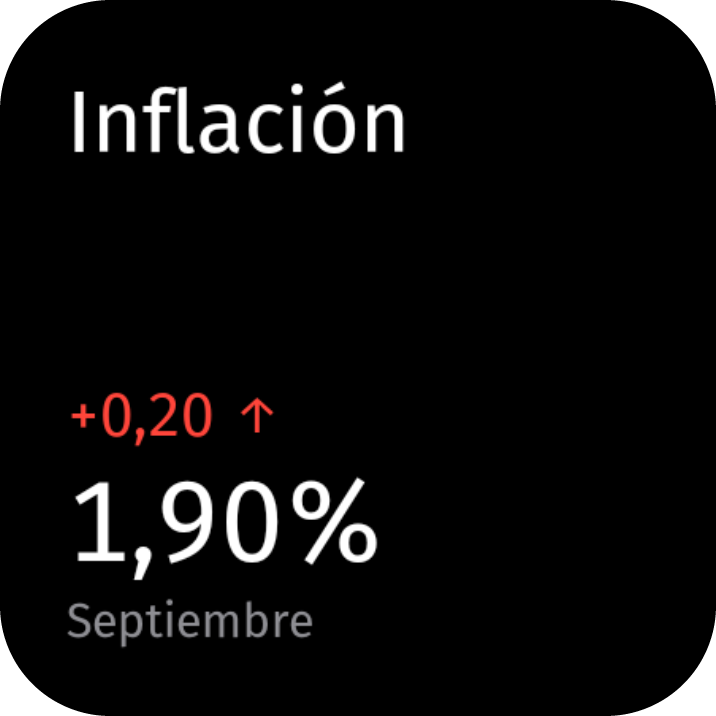
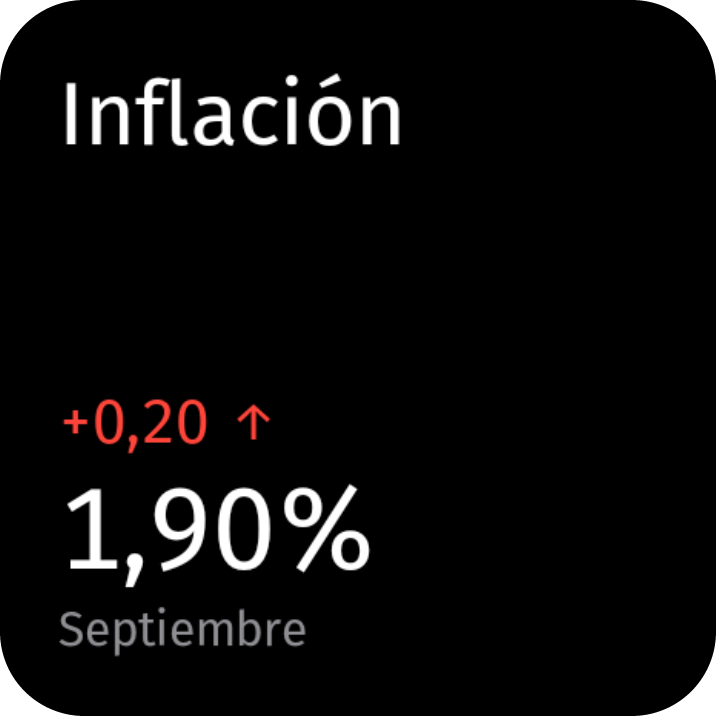
fix: android widgets stretched on tablets

diff --git a/packages/client/modules/widgets/android/src/main/java/im/outa/ambitodolar/widgets/WidgetProvider.kt b/packages/client/modules/widgets/android/src/main/java/im/outa/ambitodolar/widgets/WidgetProvider.kt
@@ -9,7 +9,6 @@ import android.content.Context
 import android.content.Intent
 import android.net.Uri
 import android.os.Build
-import android.os.Bundle
 import android.util.Log
 import android.util.SizeF
 import android.view.View
@@ -178,14 +177,14 @@ abstract class WidgetProvider : AppWidgetProvider() {
     // null means no answer and nothing on disk, the empty text beats a bare initialLayout
     if (rates == null) {
       for (id in ids) {
-        manager.updateAppWidget(id, views(context, null, id))
+        manager.updateAppWidget(id, responsive(context, null, id))
       }
       return
     }
     if (ids.isNotEmpty()) {
       // an id removed meanwhile is a no op for the host, never a widget brought back
       for (id in ids) {
-        manager.updateAppWidget(id, views(context, card(context, id, rates), id))
+        manager.updateAppWidget(id, responsive(context, card(context, id, rates), id))
       }
       Log.i(TAG, "${javaClass.simpleName} drew ${ids.size} on $trigger")
     }
@@ -210,7 +209,7 @@ abstract class WidgetProvider : AppWidgetProvider() {
     manager.setWidgetPreview(
       ComponentName(context, javaClass),
       AppWidgetProviderInfo.WIDGET_CATEGORY_HOME_SCREEN,
-      views(context, preview, null),
+      views(context, preview, null, 0),
     )
   }
 
@@ -242,34 +241,47 @@ abstract class WidgetProvider : AppWidgetProvider() {
     return CEILING * (card - 2 * padding)
   }
 
-  // OPTION_APPWIDGET_SIZES from android 12, the old extra when it is missing or empty
+  // one variant per cell size the host reports, each scaled to its own card, the square on the shorter
+  // side, so a rotation or a phone's short landscape cell never reuses another size's text
   @Suppress("DEPRECATION")
-  private fun widthDp(options: Bundle): Int {
+  private fun responsive(context: Context, content: Content?, widgetId: Int): RemoteViews {
+    val options = AppWidgetManager.getInstance(context).getAppWidgetOptions(widgetId)
     if (Build.VERSION.SDK_INT >= Build.VERSION_CODES.S) {
-      options
-        .getParcelableArrayList<SizeF>(AppWidgetManager.OPTION_APPWIDGET_SIZES)
-        ?.minOfOrNull { it.width }
-        ?.let { return it.toInt() }
+      val sizes = options.getParcelableArrayList<SizeF>(AppWidgetManager.OPTION_APPWIDGET_SIZES)
+      if (!sizes.isNullOrEmpty()) {
+        // the constructor throws past 16 sizes
+        return RemoteViews(
+          sizes.distinct().take(16).associateWith { views(context, content, widgetId, minOf(it.width, it.height).toInt()) },
+        )
+      }
     }
-    return options.getInt(AppWidgetManager.OPTION_APPWIDGET_MIN_WIDTH, 0)
+    val minWidth = options.getInt(AppWidgetManager.OPTION_APPWIDGET_MIN_WIDTH, 0)
+    val maxWidth = options.getInt(AppWidgetManager.OPTION_APPWIDGET_MAX_WIDTH, 0)
+    val minHeight = options.getInt(AppWidgetManager.OPTION_APPWIDGET_MIN_HEIGHT, 0)
+    val maxHeight = options.getInt(AppWidgetManager.OPTION_APPWIDGET_MAX_HEIGHT, 0)
+    // before android 12 the four extras: portrait is min width by max height, landscape max width by min height
+    if (minWidth > 0 && maxWidth > 0 && minHeight > 0 && maxHeight > 0) {
+      return RemoteViews(
+        views(context, content, widgetId, minOf(maxWidth, minHeight)),
+        views(context, content, widgetId, minOf(minWidth, maxHeight)),
+      )
+    }
+    return views(context, content, widgetId, minWidth)
   }
 
-  private fun views(context: Context, content: Content?, widgetId: Int?): RemoteViews {
+  // reported is the card side in dp, 0 for the picker preview, which has no widget to ask
+  private fun views(context: Context, content: Content?, widgetId: Int?, reported: Int): RemoteViews {
     val views = RemoteViews(context.packageName, layout)
     views.setViewVisibility(R.id.widget_content, if (content == null) View.GONE else View.VISIBLE)
     views.setViewVisibility(R.id.widget_empty, if (content == null) View.VISIBLE else View.GONE)
-    // 0 for the picker preview, which has no widget to ask
-    val reported =
-      widgetId?.let { widthDp(AppWidgetManager.getInstance(context).getAppWidgetOptions(it)) } ?: 0
-    // Sizes is a proportion of the card, so a card under REFERENCE_DP scales down and never up
-    val scale = if (reported > 0) (reported / REFERENCE_DP).coerceIn(SCALE_FLOOR, 1f) else 1f
+    // Sizes is a proportion of the card, so the text follows it both ways, a tablet card is bigger
+    val scale = if (reported > 0) (reported / REFERENCE_DP).coerceAtLeast(SCALE_FLOOR) else 1f
     // the padding follows the text at half its rate
     val padding =
       (context.resources.getDimensionPixelSize(R.dimen.widget_padding) * (1f + scale) / 2f)
         .roundToInt()
-    if (scale < 1f) {
-      views.setViewPadding(R.id.widget_content, padding, padding, padding, padding)
-    }
+    // always set, a host reusing the view across size variants keeps the last padding otherwise
+    views.setViewPadding(R.id.widget_content, padding, padding, padding, padding)
     when (content) {
       null ->
         views.slot(

diff --git a/packages/client/scripts/widget-preview.js b/packages/client/scripts/widget-preview.js
@@ -4,6 +4,8 @@
 //   node scripts/widget-preview.js assets/widgets/android-rate-2x2.png --size 716 --index 1
 //   node scripts/widget-preview.js assets/widgets/android-rate-2x2.png --device emulator-5554
 //
+// --index is the position in the printed card list, the order follows the layout
+//
 // Place the widget on the home screen, leave it visible, then run this with a device
 // connected. It screencaps, finds the card, cuts it out with transparent rounded
 // corners and writes the asset. The widgets module copies it from here at build time,
@@ -18,8 +20,8 @@ const path = require('path');
 const { PNG } = require('pngjs');
 const { parseArgs } = require('util');
 
-// widget_corner in dimens.xml over the 130dp a 2x2 card reports
-const RADIUS_RATIO = 20 / 130;
+// widget_corner in dimens.xml over about the card side of the capture phone, slightly inside on a bigger card
+const RADIUS_RATIO = 20 / 170;
 // a card pixel is this dark, the launcher wallpaper never is
 const DARK = 30;
 // pulls the cut inside the antialiased boundary so no wallpaper survives

diff --git a/packages/client/docs/android-widgets.md b/packages/client/docs/android-widgets.md
@@ -1,29 +1,33 @@
 # Android widgets
 
-Read this before touching anything under `packages/client/modules/widgets/`, the ios
-`RateWidgets` target, or the widget previews. `AGENTS.md` carries the pointer and the trap
-lines, this file carries everything else.
+Read before touching `packages/client/modules/widgets/`, the ios `RateWidgets` target, or the
+widget previews. The root `AGENTS.md` carries the pointer and the trap lines, this file the rest.
 
 ## The module
 
 Native, in the local expo module `packages/client/modules/widgets/`. RemoteViews and XML layouts, no react-native, no Compose. Android stays CNG: `packages/client/android/` is generated, only the module is checked in, and autolinking merges its manifest and `res/` into the app, so no config plugin.
 
-- **The card is square** through an ImageView with `adjustViewBounds` over a 1:1 shape drawable. Never `match_parent`. Sizing the card from what the launcher reports is unreliable, measured on two phones: a Moto Edge 30 Ultra cropped 16dp, a Galaxy S9 scaled to 78%.
-- **The text sizes scale to the reported width, `scale` in `WidgetProvider.views()`.** `Sizes` is a
-  proportion of the card, so every size is multiplied by `reported / REFERENCE_DP`, clamped to
-  `SCALE_FLOOR .. 1`, and the padding follows at `(1 + scale) / 2`. `REFERENCE_DP` is 170 and has to
-  stay **under the narrowest report that still renders right**, the 174 of an s9. `SCALE_FLOOR` is
-  0.7, past it `TextBitmap` ellipsizes. The picker preview has no widget to ask and gets 1.
-  Measured with `uiautomator dump`, reported against drawn: s9 on android 10 and one ui 174/144
-  right, android 12 emulator 175/176 right, android 10 emulator 130/130 overflows. The two do not
-  track, so the ratio is the signal.
-- **A list row never shrinks a name or a date**, every row keeps one size and a long one ellipsizes, as ios and the watch do with no `minimumScaleFactor`. The slot is an ImageView with `fitStart` that would scale an overflowing bitmap down, so the name and the date get the reported card minus the value beside them and `ROW_GAP_DP`, the margin in `widget_list.xml`. A host that reports more than it draws still lands on `fitStart`; the picker preview keeps the ceiling.
+- **The card is square on the shorter side of the cell** through an ImageView with `adjustViewBounds` over a 1:1 shape drawable larger than any cell, inside a `wrap_content` `RelativeLayout` that pins the content to it. Never `match_parent`: a tablet cell is wider than tall and stretched the card. Sizing the card from what the launcher reports is unreliable, measured on two phones: a Moto Edge 30 Ultra cropped 16dp, a Galaxy S9 scaled to 78%.
+- **One variant per cell size, each with its own scale, `responsive()` in `WidgetProvider.kt`.**
+  From android 12 `RemoteViews(Map<SizeF, RemoteViews>)` over `OPTION_APPWIDGET_SIZES`, one
+  variant per reported size, a foldable reports four, and the host draws the one that fits; below
+  it `RemoteViews(landscape, portrait)` from the four min/max extras. Each variant takes its card side, the shorter of width and height,
+  and `Sizes`, a proportion of the card, is multiplied by `side / REFERENCE_DP`, at least
+  `SCALE_FLOOR`, the padding at `(1 + scale) / 2`. Measured: Pixel phone card 181dp, Pixel Tablet
+  landscape 233dp, both with the text in the proportion of the preview png. `REFERENCE_DP` is 170
+  and has to stay **under the narrowest report that still renders right**, the 174 of an s9.
+  `SCALE_FLOOR` is 0.7, past it `TextBitmap` ellipsizes. Measured with `uiautomator dump`, reported
+  against drawn: s9 on android 10 and one ui 174/144 right, android 12 emulator 175/176 right,
+  android 10 emulator 130/130 overflows. The two do not track, so the ratio is the signal.
+- **The picker preview goes at scale 1**, it has no widget to ask, so on a tablet picker it reads
+  smaller than the placed widget.
+- **Names and dates ellipsize to the reported room**, every row keeps one size and a long one ellipsizes, as ios and the watch do with no `minimumScaleFactor`. The slot is an ImageView with `fitStart` that would scale an overflowing bitmap down, so the name and the date get the reported card minus the value beside them and `ROW_GAP_DP`, the margin in `widget_list.xml`. A host that reports more than it draws lands on `fitStart`, which shrinks them; the picker preview keeps the ceiling.
 - **Every text bitmap is tagged with the current density** in `TextBitmap`. The default tag is the physical density, so with a changed display size the host scaled every slot by the ratio of the two, the values grew and the names shrank. `adb shell wm density` reproduces it; the app process keeps the old density until it restarts.
 - **One role, one size, in `Sizes.kt`.** The ios point sizes times `1.05`, measured as glyph height over card width, independent of screen and density. In dp not sp, so the system font scale cannot move them, which is what `sizeCategory large` does on ios.
 - **A date that looks lighter on one widget is antialiasing or the launcher scaling it down**, never a different color. Roles live in `views()`, each widget declares only which slot carries the change color, because ios colors the small one on the rate and the big one on the spread.
 - **Gated to api 26** with `android:enabled="@bool/widget_supported"` plus a `values-v26` override, because `Resources.getFont` is api 26 and the text is drawn with it. Below that the launcher never lists the widgets.
 - **`android:fontFamily` does NOT work here.** The launcher builds the views in its own process and resolves only system typefaces, so the font falls back with no error and no log line. Measured on four devices: holds on One UI, fails on pixel, motorola, emulator. Not a format problem, a `.ttf` fails the same.
-- **The text is drawn here and travels as a bitmap.** `TextBitmap.of()` is the one routine every slot goes through, so a new widget writes no render code. Only the glyphs are pixels, the card and layout stay real views. Around 325 KB per list redraw against a 1 MB binder ceiling, `ALPHA_8` plus a tint would cut it to a quarter.
+- **The text is drawn here and travels as a bitmap.** `TextBitmap.of()` is the one routine every slot goes through, so a new widget writes no render code. Only the glyphs are pixels, the card and layout stay real views. The bitmap bytes grow with the scale squared, one set per size variant, against a `RemoteViews` ceiling that depends on the display, `ALPHA_8` plus a tint would cut them to a quarter.
 - **A restore does hand out new ids**, so `onRestored` moves the config keys across and is not dead code. `allowBackup` is false in `packages/client/app.config.ts` but from android 12 that no longer covers a device to device transfer, which is `dataExtractionRules` and there is none, so where a manufacturer still allows it the default applies.
 - **Redraw triggers**: `APPWIDGET_UPDATE`, `MY_PACKAGE_REPLACED`, `LOCALE_CHANGED`, `TIMEZONE_CHANGED`, all through `goAsync` and all hitting `/fetch`, plus `reloadWidgets()` from `withRateUpdates` and the config save. Locale and zone matter because separators and time are read at render. `MY_PACKAGE_REPLACED` matters because an app update re-inflates every widget from `initialLayout` and without it they sit bare up to half an hour.
 - **The periodic redraw is a WorkManager `PeriodicWorkRequest`**, 30 min behind a network constraint. `updatePeriodMillis` is 0 on purpose: it is an alarm, it fires with no network, and those redraws died in milliseconds on a doze wake. A failed fetch returns `Result.retry()` with no count of our own, WorkManager re-evaluates the constraint and backs off 30s doubling to five hours.
@@ -36,7 +40,7 @@ Native, in the local expo module `packages/client/modules/widgets/`. RemoteViews
 - **Nothing is cached across a locale change.** The `DecimalFormat` is built per call and not held in a lazy, which would freeze the separators of whatever locale was set the first time a widget drew.
 - **Unknown rate types are dropped at parse time**, `Format.isKnown` over `RATE_TYPES` and `MARKET_TYPES`, mirroring the ios `usableRates` whitelist. A type the app retires can still arrive from the service, and without the filter the widget titles a rate with its raw id. Survivors keep their order and compact to the top, blanks pad the bottom, same as the ios `compactMap`. The spread needs both sides or it goes empty, the list only when none of the three survives.
 - **Widget order in the picker follows the labels, not the declaration.** The launcher sorts alphabetically. Measured twice: two declaration orders gave the same picker, and renaming the labels to `Zzz`/`Aaa`/`Mmm` reordered it. Labels have to match `.configurationDisplayName(...)`, so the order is not ours to pick.
-- **`previewImage`**: regenerate from a live device with `node scripts/widget-preview.js assets/widgets/android-rate-2x2.png [--device serial]` from `packages/client`, ImageOptim after. The module `build.gradle` `copyWidgetRes` task copies `packages/client/assets/fonts/FiraGO-Regular.otf` into `font` as `widget_firago_regular.otf` and every `android-*-2x2.png` into `drawable-nodpi`, straight from `packages/client/assets/` at build time, no prebuild step between. From android 15 `setWidgetPreview` replaces them at runtime with the real rates, capped at two calls per hour per provider.
+- **`previewImage`**: regenerate from a live device with `node scripts/widget-preview.js assets/widgets/android-rate-2x2.png [--index n] [--device serial]` from `packages/client`, `oxipng -o 4 --strip safe` after. The module `build.gradle` `copyWidgetRes` task copies `packages/client/assets/fonts/FiraGO-Regular.otf` into `font` as `widget_firago_regular.otf` and every `android-*-2x2.png` into `drawable-nodpi`, straight from `packages/client/assets/` at build time, no prebuild step between. From android 15 `setWidgetPreview` replaces them at runtime with the real rates, capped at two calls per hour per provider.
 - Android cannot re-render a widget on a system theme change, so they are forced dark like ios.
 - **Logs**: `adb logcat -s AmbitoWidgets` prints nothing on One UI even with the lines in the buffer, measured on a galaxy s9: 0 against 324 for the same log. Use `adb logcat AmbitoWidgets:I *:S`. One line per redraw with its trigger and how many widgets it drew, one per call to the service with its duration.
 - Module resources are all prefixed `widget_`, plus `Theme.Widget.Config`. Keep it, everything merges into one namespace with the app.
@@ -67,14 +71,15 @@ gets shipped.
 - **A default**: ios in `Helper.swift`, `getDefaultRateType`, `getDefaultRateTypes` and
   `getDefaultSpreadRateTypes`, read from `RateTypeQuery.defaultResult` for the single rate and from
   each intent's `types` fallback for the two lists, the markets inline in `Intents.swift`, the first
-  and the first three of `getMarketTypes()`; android in each provider's `defaultRates`.
+  and the first three of `getMarketTypes()`; android in each provider's `defaultRates`. Rate
+  `oficial`, list `oficial, bna, informal`, spread `informal, bna` on both.
 - **Rates and markets share the flat keys of `/fetch`**, so an id never repeats between core
   `getAvailableRateTypes` and `getAvailableMarketTypes`, a core test fails otherwise. The market
   display rules are ported twice, `marketFormats` in `Rates.swift` and `Format.MARKETS`, from
   `MARKETS` in `packages/client/config/kinds.ts`: a change there moves all three. The native ones
-  drop the units on purpose, like the tickers, Merval `2.848.945`, Riesgo país `1.684`, Reservas
+  drop the units on purpose, like the tickers, MSCI Merval `84.093`, Riesgo país `1.684`, Reservas
   `50.043 M`; the app keeps `pts`, `pb` and `US$`. A month or a day is formatted in
-  Buenos Aires with es-AR, a time (Merval, Riesgo país) in the device zone like the rates.
+  Buenos Aires with es-AR, a time (MSCI Merval, Riesgo país) in the device zone like the rates.
 - **A /fetch schema change**: ios first, always, it reaches the widget and the watch app through
   `packages/client/targets/_shared/Rates.swift`. `lookupRateValues` reads the array by index and
   forces its casts, surviving only because `wellFormed` filters ahead of it, the stored payload
@@ -116,7 +121,7 @@ Going the other way there is a single line: `withRateUpdates` calls `reloadWidge
 - Rows update in place after a pick, the dialog is never rebuilt under the user. Both it and the picker are held in fields and dismissed in `onDestroy`, the pending selection survives a rotation through `onSaveInstanceState`.
 - Per widget config in SharedPreferences `ambito_widgets`, keys `rate0_<id>`, `rate1_<id>`, `rate2_<id>` and `value_<id>`, cleaned on delete. The same file also holds `last_payload`, which is the fallback above and is not per widget, so it is never cleaned.
 - Picking a rate another slot holds swaps them, so a widget never shows the same rate twice.
-- Defaults belong to each widget and mirror the ios ones: rate `oficial`, list `oficial, bna, informal`, spread `informal, bna`.
+- Defaults belong to each widget, see "A default" above.
 
 ## Picker copy
 
